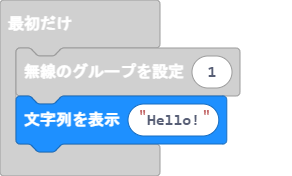
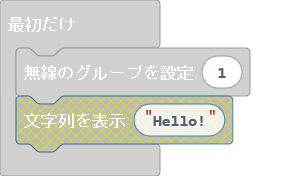
dev-001

diff --git a/main.ts b/main.ts
@@ -10,7 +10,6 @@ radio.onReceivedString(function (receivedString) {
 })
 let mode = 0
 radio.setGroup(1)
-basic.showString("Hello!")
 basic.forever(function () {
 	
 })
